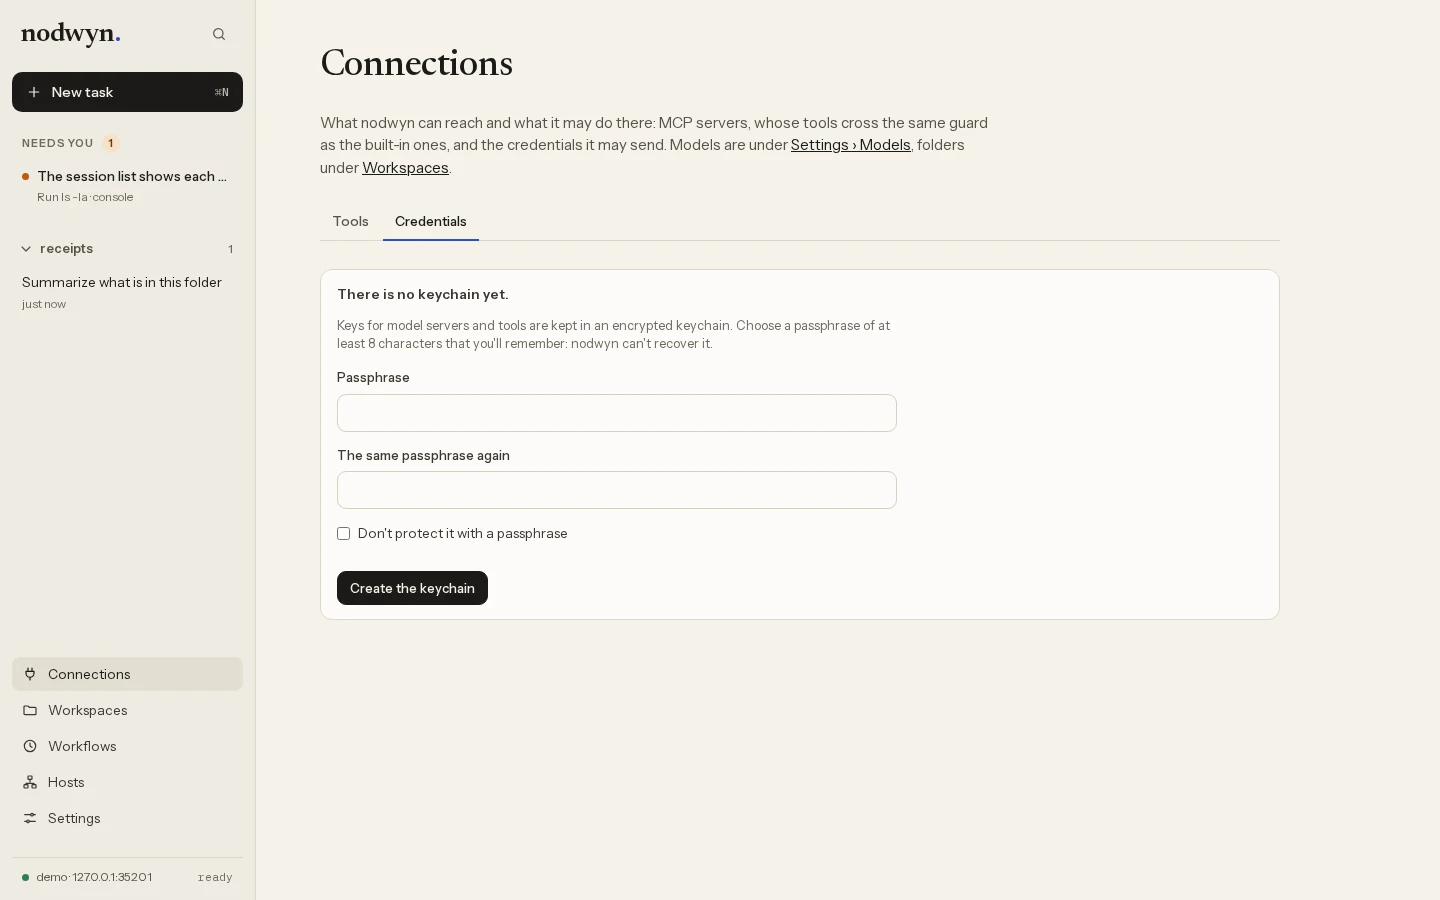
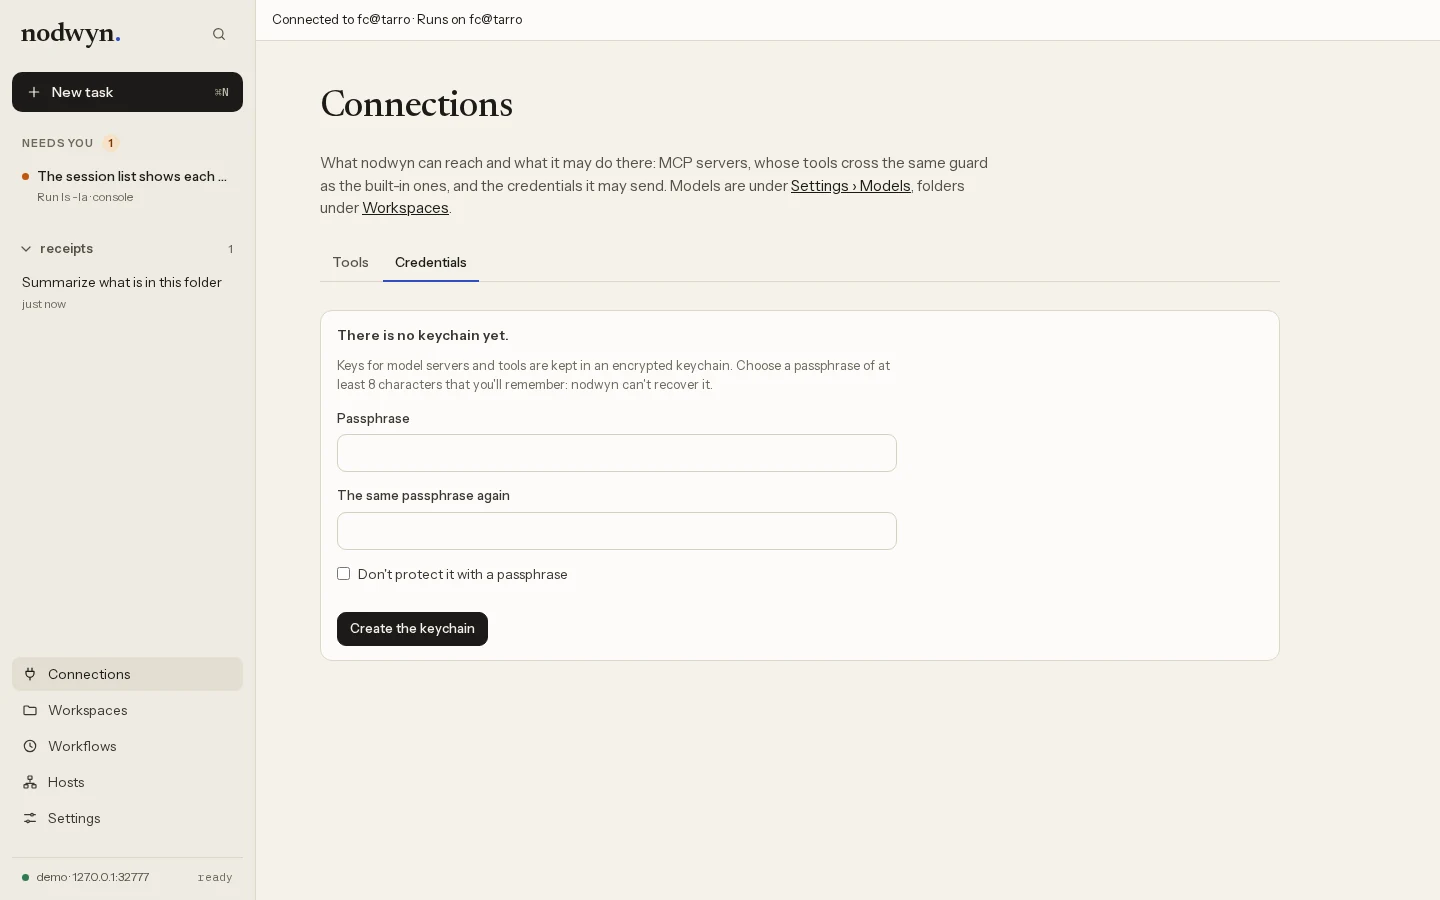
Linux desktop releases have native windows and show daemon identity
Publish a GTK3/WebKitGTK 4.1 amd64 desktop archive alongside portable builds, refresh installed icon caches, and activate the existing native window per account and daemon socket. Show authenticated daemon account and host identity for connections and linked execution targets.

Validation passed with zero warnings, including acceptance, browser and release tests. The identity regression and icon cache check fail against unchanged code. Native GNOME bridge and repeated activation checks passed under the race detector; the actual app also ran with isolated data. Ubuntu execution, visual dock acceptance, and Playwright WebKit remain unverified.

Changed region(s): [[0.2188, 0.0622, 0.6875, 0.7467], [0.1875, 0.0, 0.3438, 0.0311], [0.5312, 0.4044, 0.5938, 0.4356]]

diff --git a/internal/frontend/web/assets/app.js b/internal/frontend/web/assets/app.js
@@ -296,7 +296,14 @@ function draw(routeChanged, what) {
   $("topbar-count").hidden = !attention;
   // On a phone the sidebar is a drawer, so this is the way to what waits.
   $("topbar-count").href = attention === 1 && waiting.length === 1 ? waiting[0].desk.href(waiting[0].item.id) : "#/";
-  document.title = attention ? `(${attention}) nodwyn` : "nodwyn";
+  const identity = (connection) => {
+    const hello = connection?.live && connection.hello;
+    return hello?.account && hello?.host ? `${hello.account}@${hello.host}` : "identity unavailable";
+  };
+  const connected = identity(conn);
+  const target = route.host ? identity(hosts.get(route.host)?.conn) : connected;
+  $("daemon-identity").textContent = `Connected to ${connected} · Runs on ${target}${route.host ? ` (${route.host})` : ""}`;
+  document.title = attention ? `(${attention}) nodwyn — ${target}` : `nodwyn — ${target}`;
   const view = $("view");
   const key = ["task", "search", "history"].includes(route.name) ? `${route.name}:${route.host}:${route.id}` : route.name === "settings" ? `settings:${route.host}` : route.name;
   const ctx = { conn, desk, hosts, navigate, rerender: () => render(), pickFolder: window.nodwynPickFolder };

diff --git a/test/browser/checks/hosts.js b/test/browser/checks/hosts.js
@@ -168,6 +168,7 @@ check(async () => {
   await page.evaluate(() => (window.hiddenForCheck = true));
   await page.keyboard.press("Enter");
   await page.waitForFunction(() => /^#\/host\/workshop\/task\//.test(location.hash), null, { timeout: 20000 });
+  await shows(page, "#daemon-identity", `Connected to ${require("os").userInfo().username}@${require("os").hostname()}`, `Runs on ${require("os").userInfo().username}@${require("os").hostname()} (workshop)`);
   const remoteTask = decodeURIComponent((await page.evaluate(() => location.hash)).replace(/^#\/host\/workshop\/task\//, ""));
   assert.deepStrictEqual(of(sent.workshop, "session.open"), [{ repo: `${workshop.root}/work` }], "the task opened on workshop, in its folder");
   assert.strictEqual(of(sent.local, "session.open").length, 0, "the task opened on the laptop");

diff --git a/internal/frontend/web/assets/home.js b/internal/frontend/web/assets/home.js
@@ -582,7 +582,11 @@ export function renderHome(root, ctx) {
               root.querySelector("#runs-on")?.focus();
             },
           },
-          entries.map((e) => h("option", { value: e.name, selected: e === target }, e.name ? `${e.name}${e.conn.live ? "" : ` (${hostState(e)[1]})`}` : "This computer")),
+          entries.map((e) => {
+            const hello = e.conn.live && e.conn.hello;
+            const identity = hello?.account && hello?.host ? `${hello.account}@${hello.host}` : "identity unavailable";
+            return h("option", { value: e.name, selected: e === target }, `${e.name || "This computer"} · ${identity}${e.conn.live ? "" : ` (${hostState(e)[1]})`}`);
+          }),
         ),
       )
     : null;

diff --git a/internal/frontend/web/assets/style.css b/internal/frontend/web/assets/style.css
@@ -298,6 +298,7 @@ textarea.input { height: auto; padding: 10px 12px; line-height: 1.5; resize: ver
 .content { flex-grow: 1; min-width: 0; display: flex; flex-direction: column; min-height: 0; overflow: hidden; }
 .view { flex-grow: 1; min-height: 0; display: flex; flex-direction: column; }
 .topbar { display: none; }
+.daemon-identity { padding: 10px 16px; border-bottom: 1px solid var(--line); font-size: 13px; color: var(--ink); background: var(--surface); overflow-wrap: anywhere; }
 .banner {
   padding: 8px 16px; font-size: 13px; background: var(--warn-bg); color: var(--warn-ink);
   border-bottom: 1px solid var(--warn-line); display: flex; align-items: center; gap: 12px;

diff --git a/test/browser/checks/screens.js b/test/browser/checks/screens.js
@@ -23,6 +23,7 @@ check(async () => {
     const [ticket] = await line(demo, /TICKET (\S+)/, "stdout", from);
     await page.goto(`${base}/#ticket=${ticket}`);
     await ready(page);
+    await shows(page, "#daemon-identity", `Connected to ${require("os").userInfo().username}@${require("os").hostname()}`, "Runs on");
     await look(page);
     const bg = await page.evaluate(() => getComputedStyle(document.body).backgroundColor);
     // "Match the system" takes the side of the system's scheme.

diff --git a/internal/frontend/web/assets/index.html b/internal/frontend/web/assets/index.html
@@ -25,6 +25,7 @@
       </div>
       <nav id="sidebar" class="sidebar" aria-label="nodwyn"></nav>
       <div class="content">
+        <div id="daemon-identity" class="daemon-identity"></div>
         <div id="offline" class="banner" role="status" hidden>
           <span><span id="offline-text">Disconnected.</span> <span class="retry-text" aria-live="off"></span></span>
           <button id="reconnect" type="button" class="btn small">Reconnect now</button>

diff --git a/scripts/release.py b/scripts/release.py
@@ -24,9 +24,10 @@ import zipfile
 
 ROOT = Path(__file__).resolve().parents[1]
 TARGETS = ("linux-amd64", "linux-arm64", "darwin-amd64", "darwin-arm64")
+LINUX_APP = "nodwyn-linux-amd64-desktop.tar.gz"
 APP = "Nodwyn-macos-universal.zip"
 PAYLOADS = {f"nodwyn-{target}.tar.gz" for target in TARGETS} | {
-    APP, "nodwyn.pdf", "expert.pdf", "SOURCE.json"
+    APP, LINUX_APP, "nodwyn.pdf", "expert.pdf", "SOURCE.json"
 }
 # What the app must hold: its executable, the Linux egress proxies for the
 # container's architecture, its Info.plist and its icon (scripts/app-macos.sh).
@@ -124,6 +125,19 @@ def build(output, version=None, app=None):
             pack(output / f"nodwyn-{target}.tar.gz", {
                 "nodwyn": binary, "nodwyn-egress": proxy,
                 "LICENSE": tree / "LICENSE", "NOTICE": tree / "NOTICE"}, epoch)
+        # Use Ubuntu 24.04's GTK3 ABI as the Linux desktop baseline.
+        native = binaries / "nodwyn-desktop"
+        subprocess.run(["go", "build", "-trimpath", "-buildvcs=false", "-tags=webview,gtk3",
+                        "-ldflags", f"-s -w -X main.version={commit}", "-o", str(native), "./cmd/nodwyn"],
+                       cwd=tree, env=dict(env, CGO_ENABLED="1", GOOS="linux", GOARCH="amd64"), check=True)
+        subprocess.run(["bash", "scripts/selfcheck.sh", str(native)], cwd=tree, env=env, check=True)
+        pack(output / LINUX_APP, {
+            "nodwyn": native, "nodwyn-egress": binaries / "nodwyn-egress-linux-amd64",
+            "share/applications/com.nodwyn.app.desktop": tree / "packaging/linux/com.nodwyn.app.desktop",
+            "share/icons/hicolor/scalable/apps/com.nodwyn.app.svg": tree / "internal/frontend/web/assets/icons/icon.svg",
+            "share/icons/hicolor/512x512/apps/com.nodwyn.app.png": tree / "internal/frontend/web/assets/icons/icon-512.png",
+            "LINUX-DESKTOP.md": tree / "packaging/linux/README.md",
+            "LICENSE": tree / "LICENSE", "NOTICE": tree / "NOTICE"}, epoch)
         # The runner executes the Linux amd64 build against the repository's fake model.
         subprocess.run(["bash", "scripts/selfcheck.sh", str(binaries / "nodwyn-linux-amd64")],
                        cwd=tree, env=env, check=True)
@@ -140,6 +154,8 @@ def build(output, version=None, app=None):
                 "go": run("go", "version"), "targets": list(TARGETS),
                 "executed_target": "linux-amd64", "webview": False,
                 "proxy": "Linux, matching the archive architecture; runs inside the MCP container",
+                "linux_desktop": {"file": LINUX_APP, "tags": "webview,gtk3", "cgo": True,
+                                  "baseline": "Ubuntu 24.04 amd64", "window_executed": False},
                 "app": {"file": APP, "webview": True, "architectures": ["arm64", "x86_64"],
                         "signature": "ad hoc, not notarised", "executed": "arm64, on the macOS runner"}}
     (output / "SOURCE.json").write_text(json.dumps(metadata, indent=2) + "\n")

diff --git a/cmd/nodwyn/app_webview.go b/cmd/nodwyn/app_webview.go
@@ -5,6 +5,7 @@ package main
 import (
 	"context"
 	"crypto/rand"
+	"crypto/sha256"
 	_ "embed"
 	"encoding/hex"
 	"encoding/json"
@@ -13,6 +14,7 @@ import (
 	"os/exec"
 	"runtime"
 	"strings"
+	"sync/atomic"
 
 	"github.com/wailsapp/wails/v3/pkg/application"
 	"github.com/wailsapp/wails/v3/pkg/events"
@@ -32,7 +34,7 @@ func desktopScript(origin, token string) string {
 
 // openWindow keeps the console on its authenticated loopback origin. Only the
 // three desktop conveniences use Wails; tasks still use the existing RPC bridge.
-func openWindow(ctx context.Context, address string, forceBrowser bool) error {
+func openWindow(ctx context.Context, address string, forceBrowser bool, instance string) error {
 	if forceBrowser {
 		if err := openBrowser(ctx, address); err != nil {
 			fmt.Fprintln(os.Stderr, "app: open this address in your browser:", address)
@@ -50,7 +52,19 @@ func openWindow(ctx context.Context, address string, forceBrowser bool) error {
 		return err
 	}
 	bridge := desktopBridge{origin: origin, token: hex.EncodeToString(capability[:])}
+	// Scope activation to the account and daemon socket, never a web port.
+	key := sha256.Sum256([]byte(fmt.Sprintf("%d:%s", os.Geteuid(), instance)))
+	var activeWindow atomic.Pointer[application.WebviewWindow]
 	app = application.New(application.Options{
+		SingleInstance: &application.SingleInstanceOptions{
+			UniqueID: fmt.Sprintf("com.nodwyn.app.s%x", key[:16]),
+			OnSecondInstanceLaunch: func(_ application.SecondInstanceData) {
+				if window := activeWindow.Load(); window != nil {
+					window.Show()
+					window.Focus()
+				}
+			},
+		},
 		Name:  "nodwyn",
 		Icon:  desktopIcon,
 		Linux: application.LinuxOptions{ApplicationID: "com.nodwyn.app"},
@@ -66,6 +80,7 @@ func openWindow(ctx context.Context, address string, forceBrowser bool) error {
 		Name: "nodwyn", Title: "nodwyn", Width: 1280, Height: 860, MinWidth: 760, MinHeight: 560,
 		URL: address, JS: desktopScript(origin, bridge.token),
 	})
+	activeWindow.Store(window)
 	bridge.pickFolder = func() (string, error) {
 		return app.Dialog.OpenFile().CanChooseFiles(false).CanChooseDirectories(true).
 			SetTitle("Choose a folder for nodwyn to work in").AttachToWindow(window).PromptForSingleSelection()

diff --git a/cmd/nodwyn/app_webview_test.go b/cmd/nodwyn/app_webview_test.go
@@ -40,7 +40,19 @@ func runDesktopCheck() {
 	result := make(chan string, 1)
 	server := httptest.NewServer(http.HandlerFunc(func(w http.ResponseWriter, r *http.Request) {
 		if r.URL.Path == "/result" {
-			result <- r.URL.Query().Get("value")
+			value := r.URL.Query().Get("value")
+			if os.Getenv("NODWYN_TEST_DESKTOP_SECOND") == "1" {
+				value = "repeat launch opened another window"
+			} else {
+				repeatCtx, stop := context.WithTimeout(ctx, 5*time.Second)
+				defer stop()
+				repeat := exec.CommandContext(repeatCtx, os.Args[0], "-test.run=^TestWailsWindowRoundTrip$")
+				repeat.Env = append(os.Environ(), "NODWYN_TEST_DESKTOP_SECOND=1")
+				if output, err := repeat.CombinedOutput(); err != nil {
+					value = fmt.Sprintf("repeat activation: %v: %s", err, output)
+				}
+			}
+			result <- value
 			cancel()
 			return
 		}
@@ -55,7 +67,7 @@ window.addEventListener('nodwyn-desktop-ready', async () => {
 </script>`)
 	}))
 	defer server.Close()
-	if err := openWindow(ctx, server.URL+"/", false); err != nil {
+	if err := openWindow(ctx, server.URL+"/", false, "desktop-check"); err != nil {
 		panic(err)
 	}
 	select {

diff --git a/docs/book/parts/using.tex b/docs/book/parts/using.tex
@@ -13,6 +13,8 @@ digest with its checksum entry, extract it, and keep \code{nodwyn} beside
 with the archive's architecture. Only Linux amd64 is executed in CI; the
 other targets are cross-compiled. macOS builds are unsigned and not notarised.
 
+The Linux desktop archive, \file{nodwyn-linux-amd64-desktop.tar.gz},
+uses GTK3 and WebKitGTK 4.1 on Ubuntu 24.04 or newer and Arch.
 Portable builds omit the native webview, so \code{nodwyn app} opens a
 browser. The macOS app, \file{Nodwyn-macos-universal.zip}, has the window
 and the icon: a macOS runner builds it from the same commit and starts its
@@ -1110,3 +1112,6 @@ On Linux, \code{python3 scripts/install-desktop.py /absolute/path/to/nodwyn}
 installs an application-menu shortcut and the console's icon for your
 account. Pin nodwyn from that menu. The native window and launcher share
 \code{com.nodwyn.app}; macOS uses the icon in \file{Nodwyn.app}.
+
+The console header names the connected daemon and the execution daemon as
+account@host, from the daemon handshake rather than the browser address.

diff --git a/docs/book/source/catalogue.tex b/docs/book/source/catalogue.tex
@@ -4,7 +4,7 @@
 
 \chapter{Coverage and reading conventions}
 
-This inventory includes 301 of 673 tracked Go files: every non-test Go file, 76,842 of 150,892 Go source lines (50.9\% by lines). It also includes all 37 tracked Scheme files (6,572 lines). Counts include comments and blank lines; Go test files are omitted, not silently shortened.
+This inventory includes 301 of 674 tracked Go files: every non-test Go file, 76,865 of 150,955 Go source lines (50.9\% by lines). It also includes all 37 tracked Scheme files (6,572 lines). Counts include comments and blank lines; Go test files are omitted, not silently shortened.
 
 Each file is printed in full from the checkout at build time, including build constraints, imports and comments. The navigation map in Part~\ref{part:source-map} supplies routes through these listings. Some Unicode symbols are rendered with equivalent typesetting glyphs; consult the source file for exact bytes.
 

diff --git a/test/release/test_desktop.py b/test/release/test_desktop.py
@@ -3,6 +3,7 @@
 import os
 from pathlib import Path
 import subprocess
+import shutil
 import tempfile
 import time
 import unittest
@@ -27,6 +28,8 @@ class DesktopTest(unittest.TestCase):
                             str(binary), "--data-dir", str(data)], check=True)
             launcher = data / "applications/com.nodwyn.app.desktop"
             subprocess.run(["desktop-file-validate", str(launcher)], check=True)
+            if shutil.which("gtk-update-icon-cache"):
+                self.assertTrue((data / "icons/hicolor/icon-theme.cache").is_file())
             result = root / "result"
             subprocess.run(["gio", "launch", str(launcher)], check=True,
                            env=dict(os.environ, NODWYN_LAUNCH_RESULT=str(result)))
